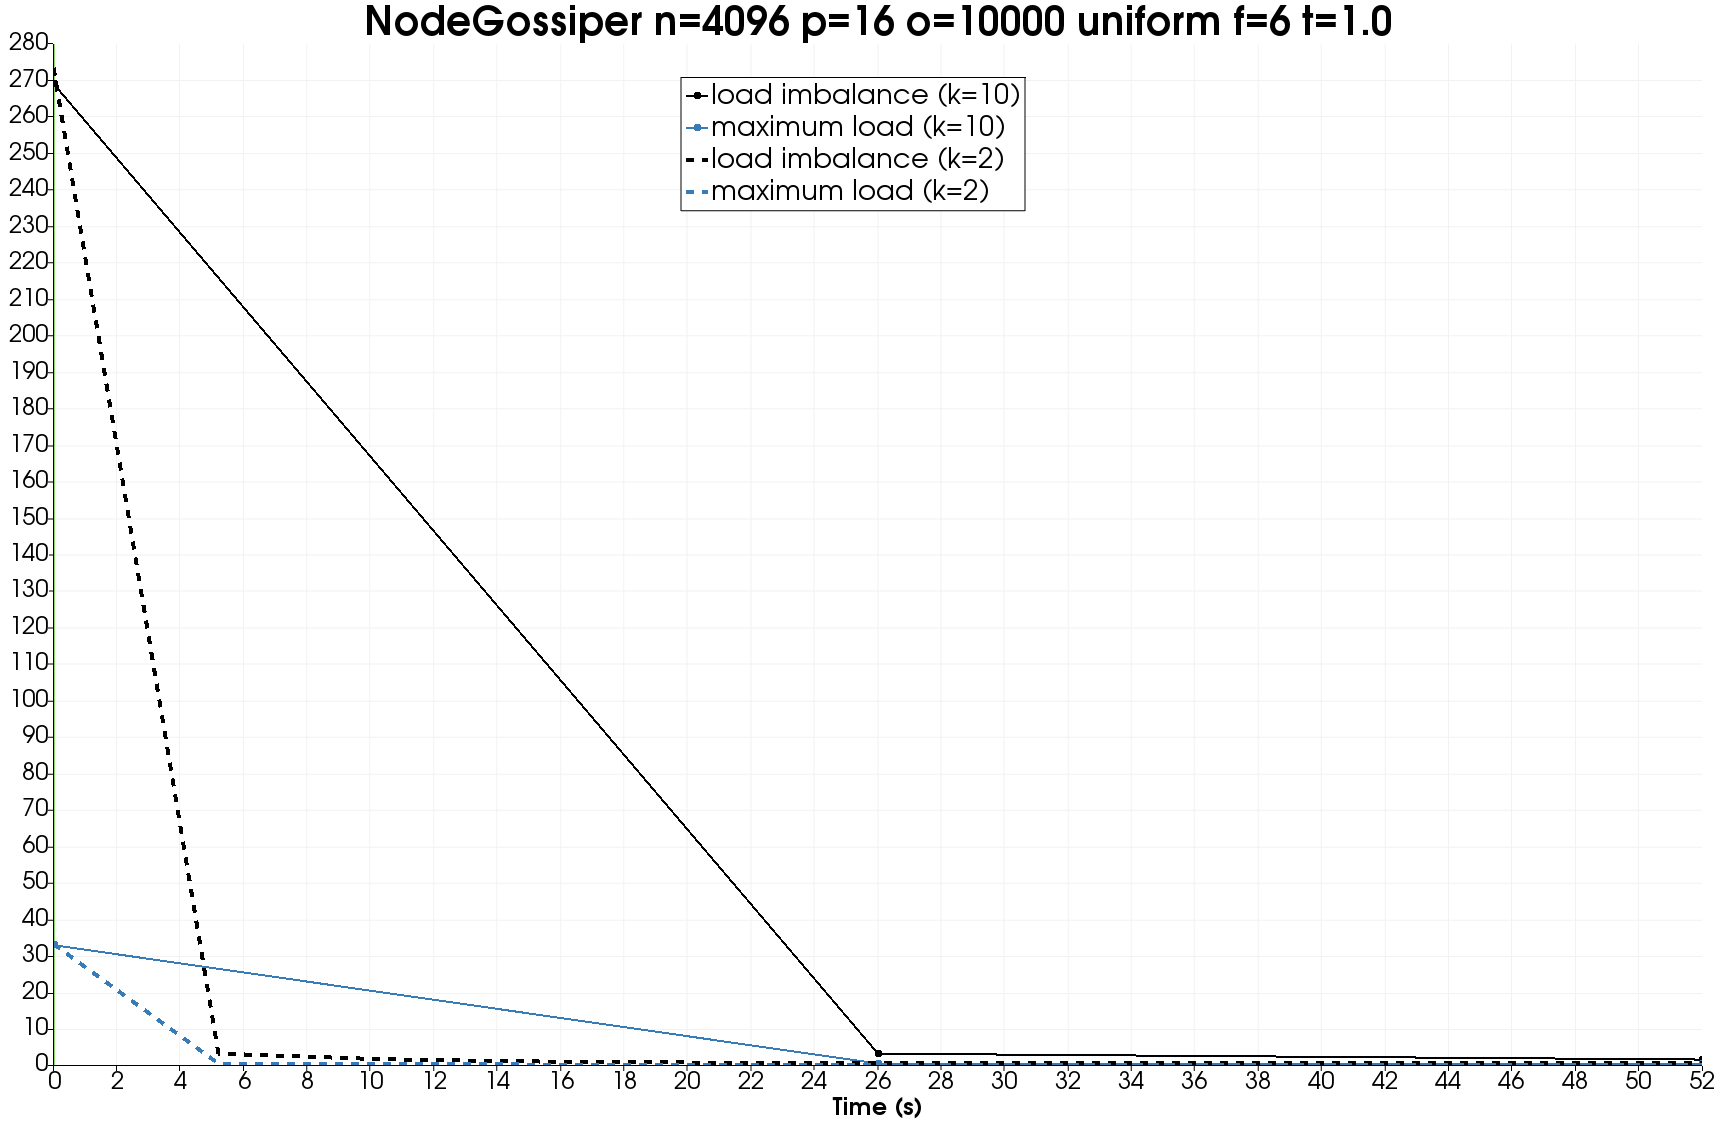
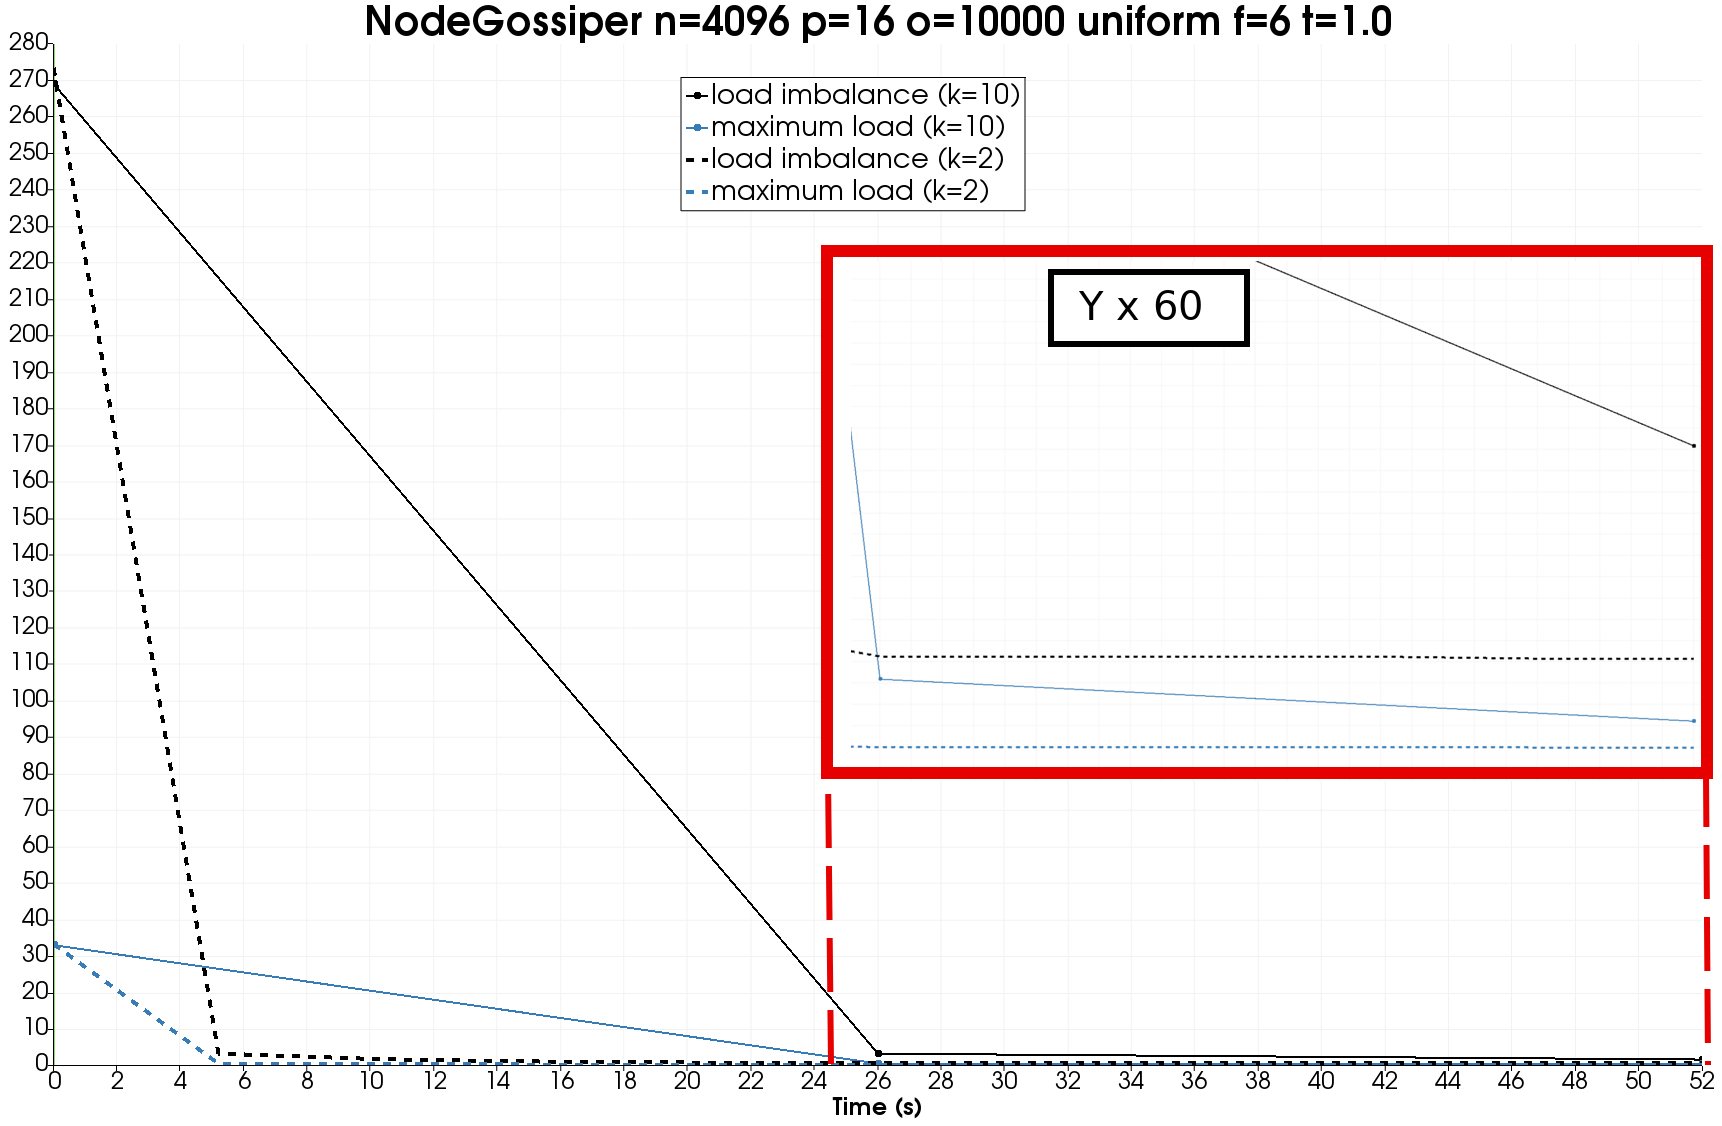
#280: report: better figure combining two scales

diff --git a/doc/SAND2019-xxxx/data/NodeGossiper-n4096-p16-o10000-uniform-f6-t1_0--0s-52s.tex b/doc/SAND2019-xxxx/data/NodeGossiper-n4096-p16-o10000-uniform-f6-t1_0--0s-52s.tex
@@ -1,1 +1,4 @@
-Plot of global imbalance ($\mathcal{I}$) and maximum load ($L_{\max}$) versus time normalized to $52s$ (average time to solution).
+Plot of global imbalance ($\mathcal{I}$) and maximum load ($L_{\max}$)
+versus time normalized to $52s$ (average time to solution); plot
+ordinates are rescaled by a factor of~$60$ in the red inset for the
+second half of the time interval to emphasize convergence.
